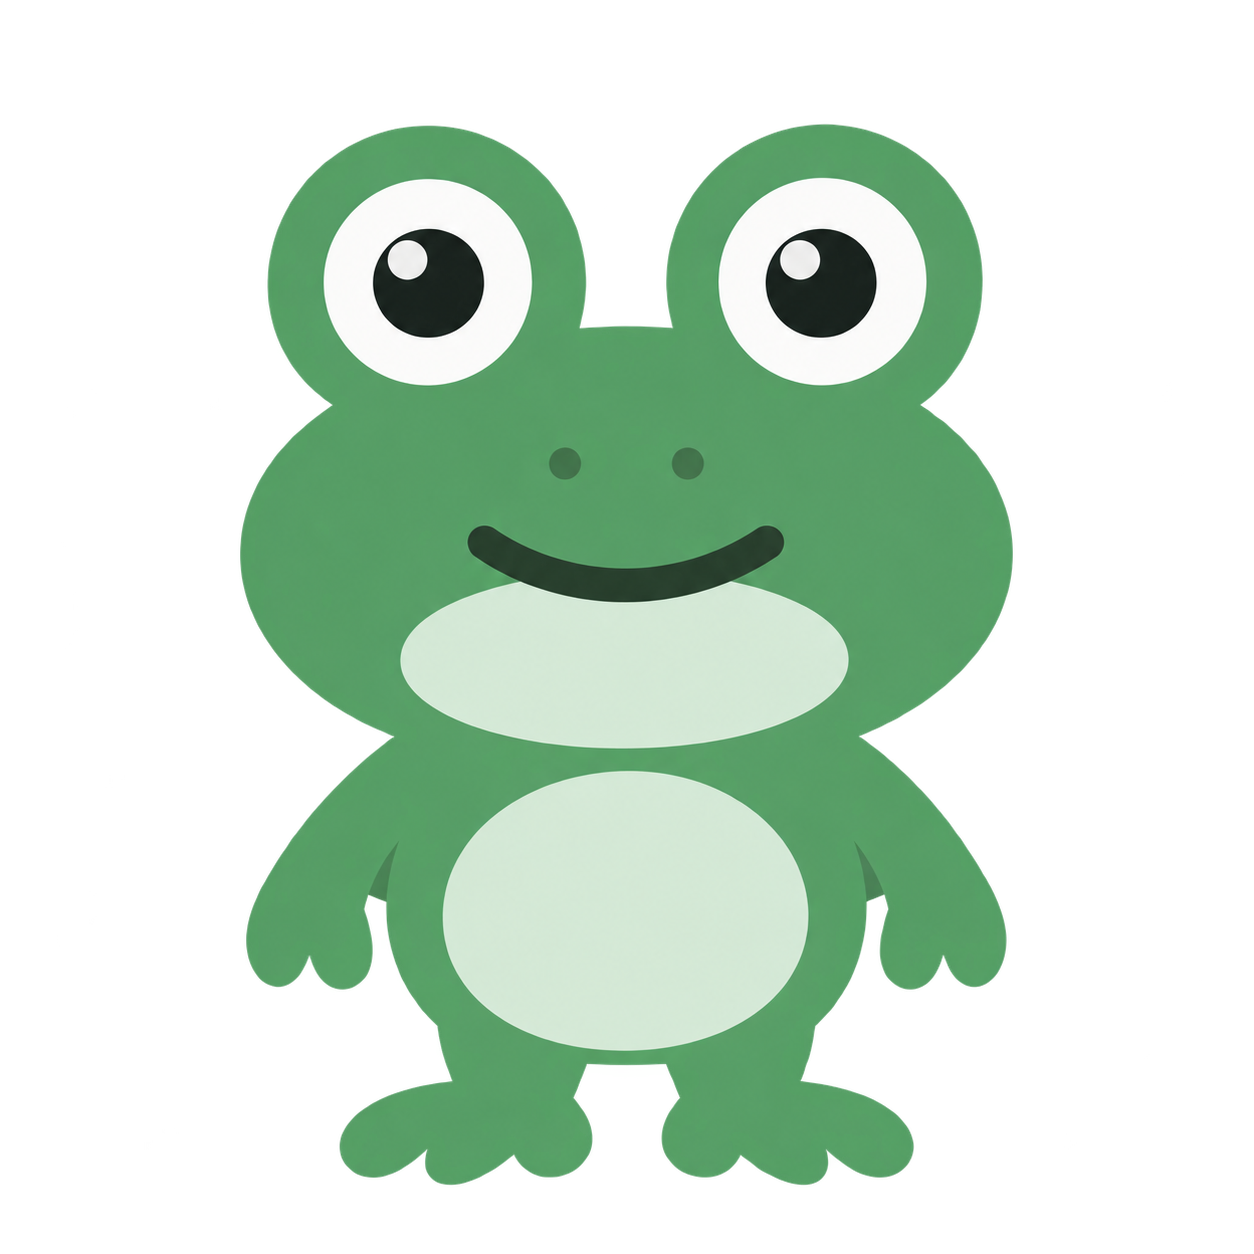
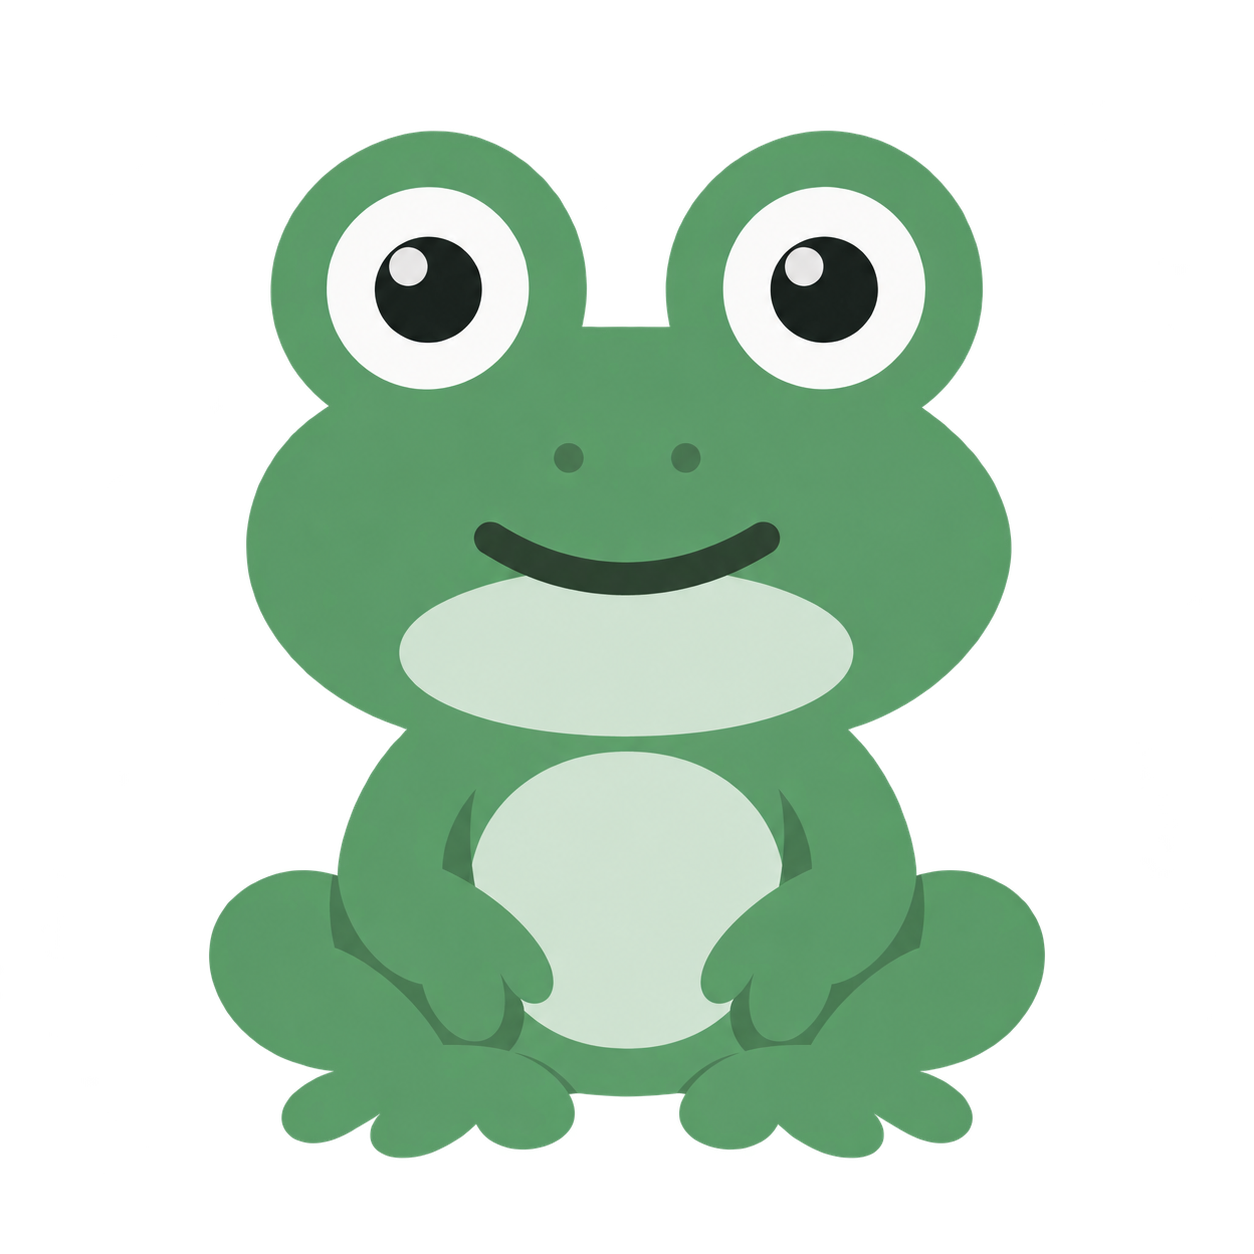
Take the two re-runs; both fixes hold up when measured
needs-user's tongue is lime now — 5,932 lime pixels in the mouth band and
zero salmon, against #e07878 on the first pass. It agrees with completion,
which is the point: two open-mouth poses disagreeing about the accent
colour was the defect.

idle is genuinely seated: legs folded, eyes open and alert, gentle closed
smile. Its widest point sits 79% down the silhouette, which is what seated
looks like when measured rather than eyeballed, against 47% for the
standing pose. So the set finally has three distinguishable resting-ish
states — canonical standing, idle seated and awake, resting seated and
half-lidded — instead of two masters and no idle.

Both are revision 2, both 1254x1254 RGBA with real alpha, both carrying
their own C2PA provenance. All fourteen recorded checksums re-verified
against disk after the swap. The superseded bytes are in git history rather
than kept as dead files.

One open item stays open and stays visible on the gallery card: content
height varies 963-1095px across the set, so poses that swap in place will
read as the character growing and shrinking. That wants a normalised export
set before any of this reaches the app, and the originals stay untouched.

Claude-Session: https://claude.ai/code/session_01NX6PgsAkyMzbB1zzSxGqE2

diff --git a/design/preproduction/GALLERY.html b/design/preproduction/GALLERY.html
@@ -176,7 +176,7 @@
       </figure>
       <figure style="margin: 0">
         <img alt="idle" class="shot" src="brand/poses/idle.png" />
-        <figcaption class="fig">idle · near-duplicate of canonical</figcaption>
+        <figcaption class="fig">idle · seated, rev 2</figcaption>
       </figure>
       <figure style="margin: 0">
         <img alt="research" class="shot" src="brand/poses/research.png" />
@@ -188,7 +188,7 @@
       </figure>
       <figure style="margin: 0">
         <img alt="needs-user" class="shot" src="brand/poses/needs-user.png" />
-        <figcaption class="fig">needs-user · tongue off-palette</figcaption>
+        <figcaption class="fig">needs-user · lime tongue, rev 2</figcaption>
       </figure>
       <figure style="margin: 0">
         <img alt="completion" class="shot" src="brand/poses/completion.png" />
@@ -202,14 +202,17 @@
     <p class="warn">
       1254&times;1254 RGBA with a real alpha channel, generated by the owner
       from
-      <a href="brand/POSE_PROMPTS.md">POSE_PROMPTS.md</a>. Two findings before
-      these are approved: <b>needs-user</b>'s tongue is
-      <code>#e07878</code> where the palette says lime <code>#b4e04a</code> —
-      <b>completion</b> gets it right — and <b>idle</b> is a near-duplicate of
-      <b>canonical</b> rather than the seated pose the prompt asked for, so the
-      set has two masters and no distinct idle. Content height also varies
-      963&ndash;1095px across the set, which shows as the character growing
-      between states if they swap in place.
+      <a href="brand/POSE_PROMPTS.md">POSE_PROMPTS.md</a>. Two came back wrong
+      on the first pass and were re-run: <b>needs-user</b>'s tongue was
+      <code>#e07878</code> where the palette says lime, and <b>idle</b> was a
+      standing near-duplicate of <b>canonical</b>
+      instead of the seated pose. Both are revision 2 and both now check out —
+      the tongue measures 5,932 lime pixels and no salmon, and idle's widest
+      point sits 79% down its silhouette, which is what seated looks like when
+      you measure it rather than eyeball it. One open item: content height still
+      varies 963&ndash;1095px across the set, which shows as the character
+      growing between states if they swap in place, so a normalised export set
+      is worth making before they go into the app.
     </p>
   </div>
 
